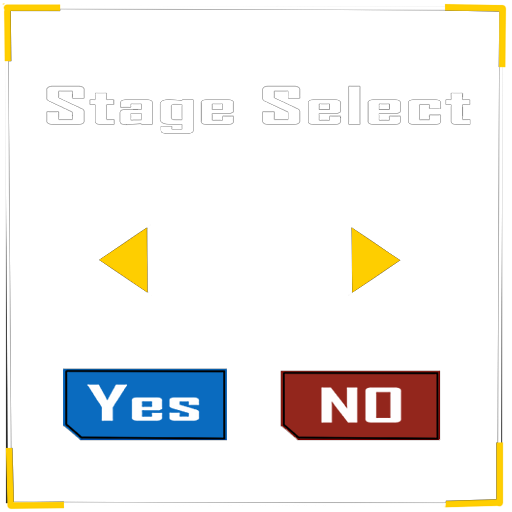
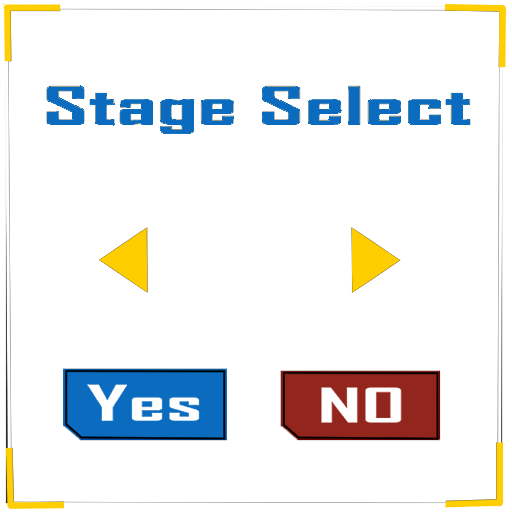
いろいろ修正

Changed region(s): [[0.5, 0.1562, 0.9375, 0.25], [0.0938, 0.1562, 0.4688, 0.2812]]

diff --git a/Solution/App/SceneSelect.cpp b/Solution/App/SceneSelect.cpp
@@ -31,11 +31,12 @@ _ispush( false ) {
 	drawer->loadGraph( GRAPH_CONTROLLER_NEUTRAL, "controller/neutral.png" );
 	drawer->loadGraph( GRAPH_CONTROLLER_ROTATION, "controller/rotation.png" );
 	drawer->loadGraph( GRAPH_OK, "UI/select_ok.png" );
-	drawer->loadGraph( GRAPH_CIRCLE, "scene/circle_yellow1.png" );
+	drawer->loadGraph( GRAPH_BG, "title/title_bg.png" );
+	drawer->loadGraph( GRAPH_CIRCLE, "scene/circle_blue1.png" );
 	drawer->loadGraph( GRAPH_STAGE_SELECT, "select/Stage Select.png" );
-	drawer->loadGraph( GRAPH_NUM_1, "select/1.png" );
-	drawer->loadGraph( GRAPH_NUM_2, "select/2.png" );
-	drawer->loadGraph( GRAPH_NUM_3, "select/3.png" );
+	drawer->loadGraph( GRAPH_NUM_1, "select/1_1.png" );
+	drawer->loadGraph( GRAPH_NUM_2, "select/2_1.png" );
+	drawer->loadGraph( GRAPH_NUM_3, "select/3_1.png" );
 	freazeSelect( );
 	resetCount( );
 }
@@ -113,7 +114,8 @@ Scene::NEXT SceneSelect::update( ) {
 }
 
 void SceneSelect::draw( ) {
-	drawFadeBg( );
+	//drawFadeBg( );
+	drawBg( );
 	drawRogo( );
 	drawController( );
 	drawTriangle( );
@@ -127,6 +129,16 @@ void SceneSelect::draw( ) {
 		drawFadeOut( );
 	}
 
+}
+
+void SceneSelect::drawBg( ) {
+	ApplicationPtr app = Application::getInstance( );
+	const int WIDTH = app->getWindowWidth( );
+	const int HEIGHT = app->getWindowHeight( );
+
+	DrawerPtr drawer = Drawer::getTask( );
+	Drawer::Sprite sprite( Drawer::Transform( 0, 0, 0, 0, 1920, 1080, WIDTH, HEIGHT ), GRAPH_BG );
+	drawer->setSprite( sprite );
 }
 
 void SceneSelect::drawRogo( ) {
@@ -277,7 +289,7 @@ void SceneSelect::drawCircle( ) const {
 	int tx = idx % 5;
 	int ty = idx / 5;
 	DrawerPtr drawer = Drawer::getTask( );
-	Drawer::Sprite sprite( Drawer::Transform( WIDTH / 2 - CIRCLE_SIZE / 2, HEIGHT * 5 / 6 - 74 + CIRCLE_SIZE * 3 / 5, tx * CIRCLE_SIZE, ty * CIRCLE_SIZE, CIRCLE_SIZE, CIRCLE_SIZE ), GRAPH_CIRCLE );
+	Drawer::Sprite sprite( Drawer::Transform( WIDTH / 2 - CIRCLE_SIZE / 2, HEIGHT / 2 - 74 + CIRCLE_SIZE * 3 / 5, tx * CIRCLE_SIZE, ty * CIRCLE_SIZE, CIRCLE_SIZE, CIRCLE_SIZE ), GRAPH_CIRCLE );
 	drawer->setSprite( sprite );
 }
 
@@ -289,8 +301,8 @@ void SceneSelect::drawController( ) {
 	const int CONTROLLER_SIZE = 512;
 
 	DrawerPtr drawer = Drawer::getTask( );
-	//Drawer::Transform trans( WIDTH / 2 - CONTROLLER_SIZE / 4, HEIGHT * 3 / 5, 0, 0, CONTROLLER_SIZE, CONTROLLER_SIZE, WIDTH / 2 - CONTROLLER_SIZE / 4 + CONTROLLER_SIZE / 2, HEIGHT * 3 / 5 + CONTROLLER_SIZE / 2 );
-	Drawer::Transform trans( WIDTH / 2 - CONTROLLER_SIZE / 4, HEIGHT / 2 + CONTROLLER_SIZE / 6, 0, 0, CONTROLLER_SIZE, CONTROLLER_SIZE, WIDTH / 2 - CONTROLLER_SIZE / 4 + CONTROLLER_SIZE / 2, HEIGHT / 2 + CONTROLLER_SIZE / 2 + CONTROLLER_SIZE / 6);
+	Drawer::Transform trans( WIDTH / 2 - CONTROLLER_SIZE / 4, HEIGHT * 4 / 6, 0, 0, CONTROLLER_SIZE, CONTROLLER_SIZE, WIDTH / 2 - CONTROLLER_SIZE / 4 + CONTROLLER_SIZE / 2, HEIGHT * 4 / 6 + CONTROLLER_SIZE / 2 );
+	//Drawer::Transform trans( WIDTH / 2 - CONTROLLER_SIZE / 4, HEIGHT / 2 + CONTROLLER_SIZE / 6, 0, 0, CONTROLLER_SIZE, CONTROLLER_SIZE, WIDTH / 2 - CONTROLLER_SIZE / 4 + CONTROLLER_SIZE / 2, HEIGHT / 2 + CONTROLLER_SIZE / 2 + CONTROLLER_SIZE / 6);
 	if ( _count % DRAW_TIME < DRAW_TIME * 2 / 3 ) {
 		Drawer::Sprite sprite( trans, GRAPH_CONTROLLER_ROTATION );
 		drawer->setSprite( sprite );
@@ -303,7 +315,7 @@ void SceneSelect::drawController( ) {
 	int tw = 167;
 	int th = 74;
 	Drawer::Transform trans2( WIDTH / 2 - tw / 2, HEIGHT * 5 / 6, tx, ty,  tw,  th, WIDTH / 2 + tw / 2,  HEIGHT * 5 / 6 + th );
-	Drawer::Sprite sprite( trans2, GRAPH_OK );
-	drawer->setSprite( sprite );
+	//Drawer::Sprite sprite( trans2, GRAPH_OK );
+	//drawer->setSprite( sprite );
 	
 }

diff --git a/Solution/App/SceneResult.cpp b/Solution/App/SceneResult.cpp
@@ -85,6 +85,7 @@ Scene::NEXT SceneResult::update( ) {
 void SceneResult::draw( ) const {
 	//drawThisTime( );
 	//drawBestTime( );
+	drawBg( );
 	drawFadeBg( );
 	drawController( );
 	drawResult( );
@@ -98,6 +99,16 @@ void SceneResult::draw( ) const {
 		drawFadeOut( );
 	}
 	
+}
+
+void SceneResult::drawBg( ) const {
+	ApplicationPtr app = Application::getInstance( );
+	const int WIDTH = app->getWindowWidth( );
+	const int HEIGHT = app->getWindowHeight( );
+
+	DrawerPtr drawer = Drawer::getTask( );
+	Drawer::Sprite sprite( Drawer::Transform( 0, 0, 0, 0, 1920, 1080, WIDTH, HEIGHT ), GRAPH_BG );
+	drawer->setSprite( sprite );
 }
 
 void SceneResult::drawResult( ) const {
@@ -261,8 +272,8 @@ void SceneResult::drawController( ) const {
 	const int CONTROLLER_SIZE = 512;
 
 	DrawerPtr drawer = Drawer::getTask( );
-	//Drawer::Transform trans( WIDTH / 2 - CONTROLLER_SIZE / 4, HEIGHT * 3 / 5, 0, 0, CONTROLLER_SIZE, CONTROLLER_SIZE, WIDTH / 2 - CONTROLLER_SIZE / 4 + CONTROLLER_SIZE / 2, HEIGHT * 3 / 5 + CONTROLLER_SIZE / 2 );
-	Drawer::Transform trans( WIDTH / 2 - CONTROLLER_SIZE / 4, HEIGHT / 2 + CONTROLLER_SIZE / 6, 0, 0, CONTROLLER_SIZE, CONTROLLER_SIZE, WIDTH / 2 - CONTROLLER_SIZE / 4 + CONTROLLER_SIZE / 2, HEIGHT / 2 + CONTROLLER_SIZE / 2 + CONTROLLER_SIZE / 6);
+	Drawer::Transform trans( WIDTH / 2 - CONTROLLER_SIZE / 4, HEIGHT * 4 / 6, 0, 0, CONTROLLER_SIZE, CONTROLLER_SIZE, WIDTH / 2 - CONTROLLER_SIZE / 4 + CONTROLLER_SIZE / 2, HEIGHT * 4 / 6 + CONTROLLER_SIZE / 2 );
+	//Drawer::Transform trans( WIDTH / 2 - CONTROLLER_SIZE / 4, HEIGHT / 2 + CONTROLLER_SIZE / 6, 0, 0, CONTROLLER_SIZE, CONTROLLER_SIZE, WIDTH / 2 - CONTROLLER_SIZE / 4 + CONTROLLER_SIZE / 2, HEIGHT / 2 + CONTROLLER_SIZE / 2 + CONTROLLER_SIZE / 6);
 	if ( _count % DRAW_TIME < DRAW_TIME * 2 / 3 ) {
 		Drawer::Sprite sprite( trans, GRAPH_CONTROLLER_ROTATION );
 		drawer->setSprite( sprite );
@@ -275,8 +286,8 @@ void SceneResult::drawController( ) const {
 	int tw = 167;
 	int th = 74;
 	Drawer::Transform trans2( WIDTH / 2 - tw / 2, HEIGHT * 5 / 6, tx, ty,  tw,  th, WIDTH / 2 + tw / 2,  HEIGHT * 5 / 6 + th );
-	Drawer::Sprite sprite( trans2, GRAPH_OK );
-	drawer->setSprite( sprite );
+	//Drawer::Sprite sprite( trans2, GRAPH_OK );
+	//drawer->setSprite( sprite );
 	
 }
 
@@ -294,7 +305,7 @@ void SceneResult::drawCircle( ) const {
 	int ty = idx / 5;
 
 	DrawerPtr drawer = Drawer::getTask( );
-	Drawer::Sprite sprite( Drawer::Transform( WIDTH / 2 - CIRCLE_SIZE / 2, HEIGHT * 5 / 6 - 74 + CIRCLE_SIZE * 3 / 5, tx * CIRCLE_SIZE, ty * CIRCLE_SIZE, CIRCLE_SIZE, CIRCLE_SIZE ), GRAPH_CIRCLE );
+	Drawer::Sprite sprite( Drawer::Transform( WIDTH / 2 - CIRCLE_SIZE / 2, HEIGHT / 2 - 74 + CIRCLE_SIZE * 3 / 5, tx * CIRCLE_SIZE, ty * CIRCLE_SIZE, CIRCLE_SIZE, CIRCLE_SIZE ), GRAPH_CIRCLE );
 	drawer->setSprite( sprite );
 }
 

diff --git a/Solution/App/SceneTitle.cpp b/Solution/App/SceneTitle.cpp
@@ -68,7 +68,7 @@ Scene::NEXT SceneTitle::update( ) {
 }
 
 void SceneTitle::draw( ) {
-	//drawFadeBg( );
+	drawFadeBg( );
 	drawBg( );
 	drawTitle( );
 	//drawPlease( );
@@ -134,8 +134,8 @@ void SceneTitle::drawController( ) {
 	const int CONTROLLER_SIZE = 512;
 
 	DrawerPtr drawer = Drawer::getTask( );
-	//Drawer::Transform trans( WIDTH / 2 - CONTROLLER_SIZE / 4, HEIGHT * 3 / 5, 0, 0, CONTROLLER_SIZE, CONTROLLER_SIZE, WIDTH / 2 - CONTROLLER_SIZE / 4 + CONTROLLER_SIZE / 2, HEIGHT * 3 / 5 + CONTROLLER_SIZE / 2 );
-	Drawer::Transform trans( WIDTH / 2 - CONTROLLER_SIZE / 4, HEIGHT / 2 + CONTROLLER_SIZE / 6, 0, 0, CONTROLLER_SIZE, CONTROLLER_SIZE, WIDTH / 2 - CONTROLLER_SIZE / 4 + CONTROLLER_SIZE / 2, HEIGHT / 2 + CONTROLLER_SIZE / 2 + CONTROLLER_SIZE / 6);
+	Drawer::Transform trans( WIDTH / 2 - CONTROLLER_SIZE / 4, HEIGHT * 4 / 6, 0, 0, CONTROLLER_SIZE, CONTROLLER_SIZE, WIDTH / 2 - CONTROLLER_SIZE / 4 + CONTROLLER_SIZE / 2, HEIGHT * 4 / 6 + CONTROLLER_SIZE / 2 );
+	//Drawer::Transform trans( WIDTH / 2 - CONTROLLER_SIZE / 4, HEIGHT / 2 + CONTROLLER_SIZE / 4 + CONTROLLER_SIZE * 2 / 6, 0, 0, CONTROLLER_SIZE, CONTROLLER_SIZE, WIDTH / 2 - CONTROLLER_SIZE / 4 + CONTROLLER_SIZE / 2, HEIGHT / 2 + CONTROLLER_SIZE / 2 + CONTROLLER_SIZE / 4 + CONTROLLER_SIZE  * 2 / 6 );
 	if ( _count % DRAW_TIME < DRAW_TIME * 2 / 3 ) {
 		Drawer::Sprite sprite( trans, GRAPH_CONTROLLER_ROTATION );
 		drawer->setSprite( sprite );
@@ -147,9 +147,9 @@ void SceneTitle::drawController( ) {
 	int ty = 366;
 	int tw = 167;
 	int th = 74;
-	Drawer::Transform trans2( WIDTH / 2 - tw / 2, HEIGHT * 5 / 6, tx, ty,  tw,  th, WIDTH / 2 + tw / 2,  HEIGHT * 5 / 6 + th );
-	Drawer::Sprite sprite( trans2, GRAPH_OK );
-	drawer->setSprite( sprite );
+	//Drawer::Transform trans2( WIDTH / 2 - tw / 2, HEIGHT * 5 / 6, tx, ty,  tw,  th, WIDTH / 2 + tw / 2,  HEIGHT * 5 / 6 + th );
+	//Drawer::Sprite sprite( trans2, GRAPH_OK );
+	//drawer->setSprite( sprite );
 	
 }
 
@@ -166,6 +166,6 @@ void SceneTitle::drawCircle( ) const {
 	int tx = idx % 5;
 	int ty = idx / 5;
 	DrawerPtr drawer = Drawer::getTask( );
-	Drawer::Sprite sprite( Drawer::Transform( WIDTH / 2 - CIRCLE_SIZE / 2, HEIGHT * 5 / 6 - 74 + CIRCLE_SIZE * 3 / 5, tx * CIRCLE_SIZE, ty * CIRCLE_SIZE, CIRCLE_SIZE, CIRCLE_SIZE ), GRAPH_CIRCLE );
+	Drawer::Sprite sprite( Drawer::Transform( WIDTH / 2 - CIRCLE_SIZE / 2, HEIGHT / 2 - 74 + CIRCLE_SIZE * 3 / 5, tx * CIRCLE_SIZE, ty * CIRCLE_SIZE, CIRCLE_SIZE, CIRCLE_SIZE ), GRAPH_CIRCLE );
 	drawer->setSprite( sprite );
 }	

diff --git a/Solution/App/SceneGameOver.cpp b/Solution/App/SceneGameOver.cpp
@@ -159,8 +159,8 @@ void SceneGameOver::drawController( ) const {
 	const int CONTROLLER_SIZE = 512;
 
 	DrawerPtr drawer = Drawer::getTask( );
-	//Drawer::Transform trans( WIDTH / 2 - CONTROLLER_SIZE / 4, HEIGHT * 3 / 5, 0, 0, CONTROLLER_SIZE, CONTROLLER_SIZE, WIDTH / 2 - CONTROLLER_SIZE / 4 + CONTROLLER_SIZE / 2, HEIGHT * 3 / 5 + CONTROLLER_SIZE / 2 );
-	Drawer::Transform trans( WIDTH / 2 - CONTROLLER_SIZE / 4, HEIGHT / 2 + CONTROLLER_SIZE / 6, 0, 0, CONTROLLER_SIZE, CONTROLLER_SIZE, WIDTH / 2 - CONTROLLER_SIZE / 4 + CONTROLLER_SIZE / 2, HEIGHT / 2 + CONTROLLER_SIZE / 2 + CONTROLLER_SIZE / 6);
+	Drawer::Transform trans( WIDTH / 2 - CONTROLLER_SIZE / 4, HEIGHT * 4 / 6, 0, 0, CONTROLLER_SIZE, CONTROLLER_SIZE, WIDTH / 2 - CONTROLLER_SIZE / 4 + CONTROLLER_SIZE / 2, HEIGHT * 4 / 6 + CONTROLLER_SIZE / 2 );
+	//Drawer::Transform trans( WIDTH / 2 - CONTROLLER_SIZE / 4, HEIGHT / 2 + CONTROLLER_SIZE / 6, 0, 0, CONTROLLER_SIZE, CONTROLLER_SIZE, WIDTH / 2 - CONTROLLER_SIZE / 4 + CONTROLLER_SIZE / 2, HEIGHT / 2 + CONTROLLER_SIZE / 2 + CONTROLLER_SIZE / 6);
 	if ( _count % DRAW_TIME < DRAW_TIME * 2 / 3 ) {
 		Drawer::Sprite sprite( trans, GRAPH_CONTROLLER_ROTATION );
 		drawer->setSprite( sprite );
@@ -173,8 +173,8 @@ void SceneGameOver::drawController( ) const {
 	int tw = 167;
 	int th = 74;
 	Drawer::Transform trans2( WIDTH / 2 - tw / 2, HEIGHT * 5 / 6, tx, ty,  tw,  th, WIDTH / 2 + tw / 2,  HEIGHT * 5 / 6 + th );
-	Drawer::Sprite sprite( trans2, GRAPH_OK );
-	drawer->setSprite( sprite );
+	//Drawer::Sprite sprite( trans2, GRAPH_OK );
+	//drawer->setSprite( sprite );
 	
 }
 
@@ -192,6 +192,6 @@ void SceneGameOver::drawCircle( ) const {
 	int ty = idx / 5;
 
 	DrawerPtr drawer = Drawer::getTask( );
-	Drawer::Sprite sprite( Drawer::Transform( WIDTH / 2 - CIRCLE_SIZE / 2, HEIGHT * 5 / 6 - 74 + CIRCLE_SIZE * 3 / 5, tx * CIRCLE_SIZE, ty * CIRCLE_SIZE, CIRCLE_SIZE, CIRCLE_SIZE ), GRAPH_CIRCLE );
+	Drawer::Sprite sprite( Drawer::Transform( WIDTH / 2 - CIRCLE_SIZE / 2, HEIGHT / 2 - 74 + CIRCLE_SIZE * 3 / 5, tx * CIRCLE_SIZE, ty * CIRCLE_SIZE, CIRCLE_SIZE, CIRCLE_SIZE ), GRAPH_CIRCLE );
 	drawer->setSprite( sprite );
 }

diff --git a/Solution/App/SceneResult.h b/Solution/App/SceneResult.h
@@ -18,6 +18,7 @@ private:
 	void drawResult( ) const;
 	void drawGameClear( ) const;
 	void drawController( ) const;
+	void drawBg( ) const;
 private:
 	int _count;
 	int _choice_count;

diff --git a/Solution/App/SceneSelect.h b/Solution/App/SceneSelect.h
@@ -18,6 +18,7 @@ private:
 	void drawTriangle( );
 	void drawCircle( ) const;
 	void drawController( );
+	void drawBg( );
 private:
 	std::array< Vector, 3 > _pos;
 	int _move_count;

diff --git a/Solution/App/Game.cpp b/Solution/App/Game.cpp
@@ -19,7 +19,7 @@ GamePtr Game::getTask( ) {
 }
 
 Game::Game( ) :
-_next( Scene::NEXT_RESULT ),
+_next( Scene::NEXT_GAMEOVER ),
 _stage_num( 0 ),
 _result_time( 0 ) {
 }
